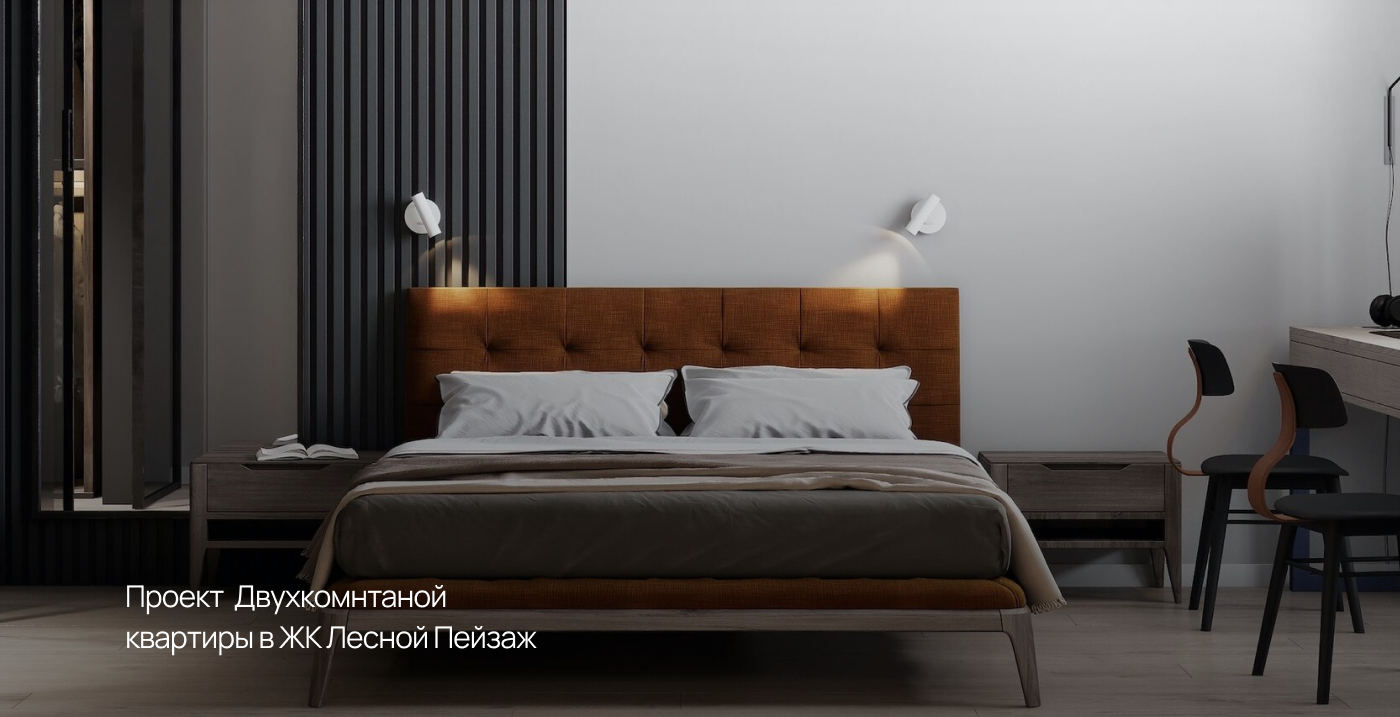
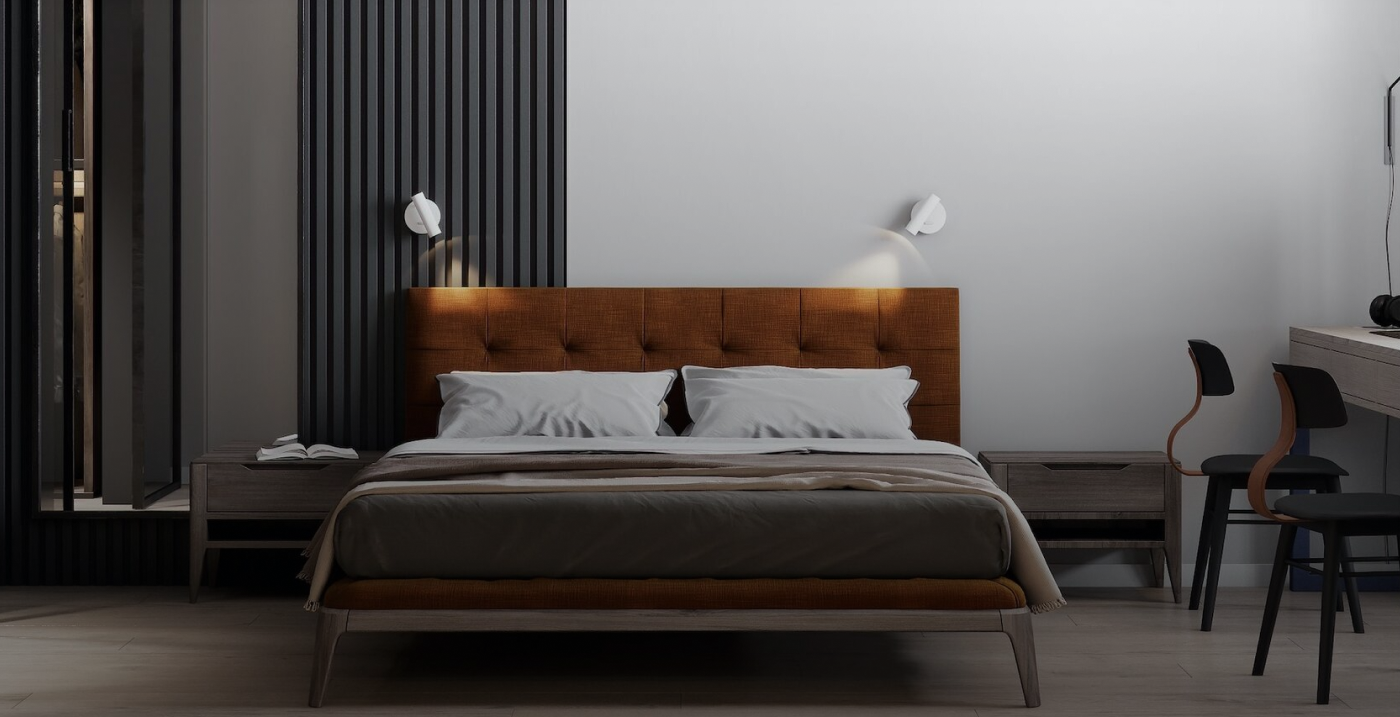
add some js and  gallery section not adaptive yet

Changed region(s): [[0.0921, 0.7978, 0.3993, 0.9205]]

diff --git a/styles/styles.css b/styles/styles.css
@@ -11,7 +11,6 @@ body {
 .container {
   max-width: 1150px;
   margin: 0 auto;
-  padding: 0 125px;
   background-color: #ffffff;
 }
 
@@ -28,6 +27,7 @@ h1 {
 }
 
 h2 {
+  margin-bottom: 30px;
   padding-top: 150px;
   font-size: 18px;
   line-height: 25px;
@@ -104,10 +104,6 @@ h3 {
   padding-bottom: 150px;
 }
 
-.projects h2 {
-  margin-bottom: 30px;
-}
-
 .projects__card {
   margin-bottom: 90px;
 }
@@ -142,14 +138,17 @@ picture img {
   transition: 0.3s;
 }
 
-.services .container {
+.services {
   background-color: #121212;
   padding-bottom: 150px;
 }
 
+.services .container {
+  background-color: #121212;
+}
+
 .services h2 {
   color: #ffffff;
-  margin-bottom: 30px;
 }
 
 .services__inner {
@@ -207,10 +206,6 @@ picture img {
   padding-bottom: 157px;
 }
 
-.comments h2 {
-  margin-bottom: 30px;
-}
-
 .comments__data {
   display: flex;
   flex-wrap: wrap;
@@ -244,11 +239,87 @@ picture img {
   color: #000000;
 }
 
+.gallery__section {
+  background-color: #ad1818;
+  position: relative;
+}
+
+.gallery__title .container,
+.gallery__controls .container,
+.gallery__slide-title .container {
+  background-color: transparent;
+}
+
+.gallery__title {
+  position: absolute;
+  top: 60px;
+  left: 125px;
+  font-size: 22px;
+  line-height: 30px;
+  letter-spacing: -0.03em;
+  text-transform: uppercase;
+  color: #ffffff;
+  z-index: 100;
+}
+
+.gallery__controls {
+  position: absolute;
+  left: 125px;
+  bottom: 165px;
+}
+
+.gallery__controls .container {
+  display: flex;
+  gap: 24px;
+}
+
+.gallery__btn {
+  background-color: transparent;
+  color: #ffffff;
+  border: none;
+  cursor: pointer;
+  height: 40px;
+}
+
+.gallery {
+  position: relative;
+  height: 717px;
+}
+
+.gallery__slide {
+  position: absolute;
+  top: 0;
+  left: 0;
+  opacity: 0;
+  width: 100%;
+  height: 100%;
+}
+
+.gallery__slide-active {
+  opacity: 1;
+}
+
+.gallery__slide img {
+  width: 100%;
+  height: 100%;
+  object-fit: cover;
+  object-position: 50%;
+}
+
+.gallery__slide-title {
+  position: absolute;
+  left: 125px;
+  bottom: 60px;
+  font-size: 30px;
+  line-height: 41px;
+  letter-spacing: -0.03em;
+  color: #ffffff;
+}
+
 @media (max-width: 1277px) {
   .container {
     box-sizing: border-box;
     width: 100%;
-    padding: 0 15px 150px 15px;
   }
 
   .comments__data {
@@ -392,6 +463,12 @@ picture img {
     font-size: 20px;
     line-height: 27px;
   }
+
+  .gallery__title,
+  .gallery__controls,
+  .gallery__slide-title {
+    left: 50px;
+  }
 }
 
 @media (max-width: 860px) {
@@ -416,6 +493,7 @@ picture img {
   }
 
   h2 {
+    margin-bottom: 20px;
     padding-top: 80px;
     font-size: 14px;
     line-height: 19px;
@@ -464,10 +542,6 @@ picture img {
     padding-bottom: 144px;
   }
 
-  .projects h2 {
-    margin-bottom: 20px;
-  }
-
   .projects__card {
     margin-bottom: 49px;
   }
@@ -494,7 +568,6 @@ picture img {
 
   .services h2 {
     padding-top: 77px;
-    margin-bottom: 20px;
   }
 
   .services__inner {

diff --git a/index.html b/index.html
@@ -180,8 +180,75 @@
           </div>
         </div>
       </section>
+
+      <!-- ГАЛЕРЕЯ -->
+      <section class="gallery__section">
+        <div class="gallery__title">
+          <div class="container">
+            <p>галерея проектов</p>
+          </div>
+        </div>
+        <div class="gallery">
+          <div class="gallery__slide gallery__slide-active">
+            <img src="resources/gallery-1.png" alt="кровать" />
+            <div class="gallery__slide-title">
+              <div class="container">
+                <p>
+                  Проект Двухкомнтаной <br />
+                  квартиры в ЖК Лесной Пейзаж
+                </p>
+              </div>
+            </div>
+          </div>
+          <div class="gallery__slide">
+            <img src="resources/gallery-2.png" alt="желтое кресло" />
+            <div class="gallery__slide-title">
+              <div class="container">
+                <p>Проект гостиной в ЖК Маяк</p>
+              </div>
+            </div>
+          </div>
+          <div class="gallery__slide">
+            <img src="resources/gallery-3.png" alt="гостиная в белом стиле" />
+            <div class="gallery__slide-title">
+              <div class="container">
+                <p>
+                  Визуализация кухни-гостиной <br />
+                  в частном доме
+                </p>
+              </div>
+            </div>
+          </div>
+          <div class="gallery__slide">
+            <img src="resources/gallery-4.png" alt="кухня с барной стойкой" />
+            <div class="gallery__slide-title">
+              <div class="container">
+                <p>
+                  Проект кухни в скандинавском <br />
+                  стиле для ЖК Северный Ветер
+                </p>
+              </div>
+            </div>
+          </div>
+        </div>
+        <div class="gallery__controls">
+          <div class="container">
+            <button class="gallery__btn gallery__btn-prev">
+              <img src="resources/control-left.png" alt="" />
+            </button>
+            <button class="gallery__btn gallery__btn-next">
+              <img src="resources/control-right.png" alt="" />
+            </button>
+          </div>
+        </div>
+      </section>
+      <!-- КОНТАКТЫ -->
+      <section class="contacts container">
+        <h2>контакты</h2>
+      </section>
     </main>
 
     <!-- <footer></footer> -->
+    <script src="script/main.js"></script>
   </body>
 </html>

diff --git a/script/main.js b/script/main.js
@@ -1,0 +1,35 @@
+const ACTIVE_SLIDE_CLASSNAME = "gallery__slide-active";
+
+const slidesNodes = Array.from(document.querySelectorAll(".gallery__slide"));
+const prevButtonNode = document.querySelector(".gallery__btn-prev");
+const nextButtonNode = document.querySelector(".gallery__btn-next");
+
+init();
+
+function init() {
+  activeId = 0;
+
+  prevButtonNode.addEventListener("click", () => {
+    setActiveSlideById(getPrevId());
+  });
+
+  nextButtonNode.addEventListener("click", () => {
+    setActiveSlideById(getNextId());
+  });
+}
+
+function setActiveSlideById(id) {
+  const currentId = activeId;
+  activeId = id;
+
+  slidesNodes[currentId].classList.remove(ACTIVE_SLIDE_CLASSNAME);
+  slidesNodes[activeId].classList.add(ACTIVE_SLIDE_CLASSNAME);
+}
+
+function getPrevId() {
+  return activeId === 0 ? slidesNodes.length - 1 : activeId - 1;
+}
+
+function getNextId() {
+  return activeId === slidesNodes.length - 1 ? 0 : activeId + 1;
+}
